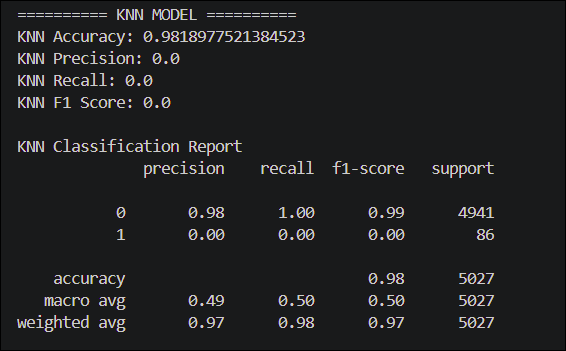
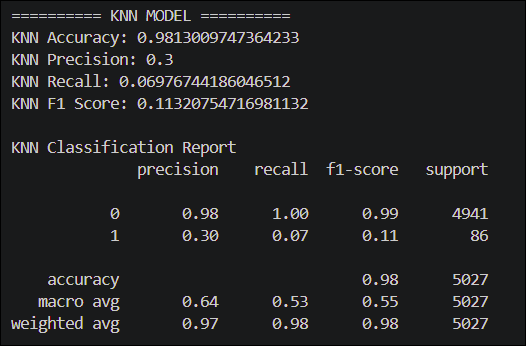
Final model update with GUI-compatible features

diff --git a/notebooks/model.py b/notebooks/model.py
@@ -22,25 +22,35 @@ from sklearn.metrics import (
 # =========================
 df = pd.read_csv("data/cleaned_data.csv")
 
-# Remove unnecessary column
-
+# Remove unnecessary columns
 df = df.drop(columns=["Unnamed: 0", "ID", "User"])
 
 # =========================
-# TARGET & FEATURES
+# SELECT FEATURES
 # =========================
-y = df["TARGET"]
+X = df[[
+    "GENDER",
+    "CAR",
+    "REALITY",
+    "NO_OF_CHILD",
+    "INCOME",
+    "AGE",
+    "YEARS_EMPLOYED"
+]]
 
-X = df.drop("TARGET", axis=1)
+# Target variable
+y = df["TARGET"]
 
 # =========================
 # ENCODE CATEGORICAL DATA
 # =========================
-le = LabelEncoder()
+le_gender = LabelEncoder()
+le_car = LabelEncoder()
+le_reality = LabelEncoder()
 
-for col in X.columns:
-    if X[col].dtype == 'object':
-        X[col] = le.fit_transform(X[col].astype(str))
+X["GENDER"] = le_gender.fit_transform(X["GENDER"])
+X["CAR"] = le_car.fit_transform(X["CAR"])
+X["REALITY"] = le_reality.fit_transform(X["REALITY"])
 
 # =========================
 # TRAIN TEST SPLIT
